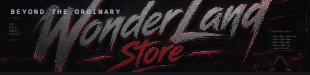
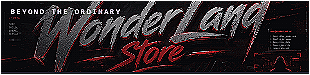
Toi uu lam net hinh anh va video nen bang thuat toan sharpen va high contrast filter

diff --git a/style.css b/style.css
@@ -57,10 +57,15 @@ body {
   position: relative;
   padding: 40px 20px 80px;
   text-rendering: optimizeLegibility;
+  -webkit-font-smoothing: antialiased;
+  -moz-osx-font-smoothing: grayscale;
 }
 
 img, video {
   image-rendering: -webkit-optimize-contrast;
+  image-rendering: high-quality;
+  -webkit-backface-visibility: hidden;
+  backface-visibility: hidden;
 }
 
 /* ========================================================
@@ -134,24 +139,26 @@ img, video {
   height: 100%;
   object-fit: cover;
   object-position: center;
-  filter: brightness(0.95) contrast(1.1);
+  filter: brightness(1.04) contrast(1.18) saturate(1.15);
   transform: translate3d(0, 0, 0);
   will-change: transform;
   backface-visibility: hidden;
   -webkit-backface-visibility: hidden;
+  image-rendering: -webkit-optimize-contrast;
+  image-rendering: high-quality;
 }
 
 .video-overlay {
   position: absolute;
   inset: 0;
-  background: radial-gradient(circle at 50% 40%, rgba(0, 0, 0, 0.25) 0%, rgba(2, 6, 14, 0.72) 100%);
+  background: radial-gradient(circle at 50% 35%, rgba(0, 0, 0, 0.12) 0%, rgba(2, 6, 14, 0.6) 100%);
   z-index: 3;
 }
 
 .vignette-overlay {
   position: absolute;
   inset: 0;
-  background: radial-gradient(circle at 50% 50%, transparent 45%, rgba(0, 0, 0, 0.85) 100%);
+  background: radial-gradient(circle at 50% 50%, transparent 50%, rgba(0, 0, 0, 0.75) 100%);
   z-index: 3;
 }
 

diff --git a/index.html b/index.html
@@ -257,9 +257,12 @@
       height: 100% !important;
       object-fit: cover !important;
       object-position: center !important;
+      filter: brightness(1.04) contrast(1.18) saturate(1.15) !important;
       transform: translate3d(0, 0, 0) !important;
       backface-visibility: hidden !important;
       -webkit-backface-visibility: hidden !important;
+      image-rendering: -webkit-optimize-contrast !important;
+      image-rendering: high-quality !important;
     }
 
     @media (max-width: 768px) {

diff --git a/lephat.html b/lephat.html
@@ -257,9 +257,12 @@
       height: 100% !important;
       object-fit: cover !important;
       object-position: center !important;
+      filter: brightness(1.04) contrast(1.18) saturate(1.15) !important;
       transform: translate3d(0, 0, 0) !important;
       backface-visibility: hidden !important;
       -webkit-backface-visibility: hidden !important;
+      image-rendering: -webkit-optimize-contrast !important;
+      image-rendering: high-quality !important;
     }
 
     @media (max-width: 768px) {
